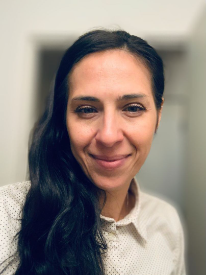
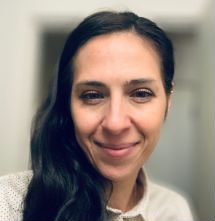
refactor: add phonts

diff --git a/index.html b/index.html
@@ -4,44 +4,44 @@
     <meta charset="UTF-8" />
     <meta http-equiv="X-UA-Compatible" content="IE=edge" />
     <meta name="viewport" content="width=device-width, initial-scale=1.0" />
+    <!-- Project fonts -->
+    <link rel="preconnect" href="https://fonts.googleapis.com">
+    <link rel="preconnect" href="https://fonts.gstatic.com" crossorigin>
+    <link href="https://fonts.googleapis.com/css2?family=DM+Sans:wght@400;700&family=PT+Sans+Narrow:wght@400;700&family=Playfair+Display:wght@400;700&family=Roboto+Slab:wght@400;700&display=swap" rel="stylesheet">
     <!-- Custom styles -->
     <link rel="stylesheet" href="./style.css" />
     <title>CV</title>
   </head>
 
   <body>
-    <container class="container">
+    <div class="container">
       <aside class="aside">
         <img
           src="./images/main_photo.jpg"
           alt="Photo of the developer this CV"
           class="photo"
-          width=""
-          height=""
+          width="204"
+          height="207"
         />
 
-
-        <address class="contacts">
+        <div class="contacts">
           <h3 class="title">CONTACTS</h3>
           <ul class="contacts-list">
             <li class="contatcs-item">
-              <svg class="icon contatcs-phone" width=""
-              height="">
+              <svg class="icon contatcs-phone" width="24" height="24">
                 <use href="/icons/sprite.svg#icon-phone"></use>
               </svg>
               <a class="link" href="tel:+15039978580">+15039978580</a>
             </li>
             <li class="contatcs-item">
-              <svg class="icon contatcs-email" width=""
-              height="">
+              <svg class="icon contatcs-email" width="24" height="24">
                 <use href="/icons/sprite.svg#icon-email"></use>
               </svg>
               <a class="link" href="mailto:vahostel@gmail.com">vahostel@gmail.com</a>
             </li>
 
             <li class="contatcs-item">
-              <svg class="icon contatcs-github" width=""
-              height="">
+              <svg class="icon contatcs-github" width="24" height="24">
                 <use href="/icons/sprite.svg#icon-github"></use>
               </svg>
               <a
@@ -55,8 +55,7 @@
             </li>
 
             <li class="contatcs-item">
-              <svg class="icon linkedin" width=""
-              height="">
+              <svg class="icon linkedin" width="24" height="24">
                 <use href="/icons/sprite.svg#icon-linkedin"></use>
               </svg>
               <a
@@ -69,9 +68,8 @@
               >
             </li>
 
-            <li class="contatcs-item" >
-              <svg class="icon contatcs-address" width=""
-              height="">
+            <li class="contatcs-item">
+              <svg class="icon contatcs-address" width="24" height="24">
                 <use href="/icons/sprite.svg#icon-home"></use>
               </svg>
               <a
@@ -83,9 +81,7 @@
               >
             </li>
           </ul>
-        </address>
-
-
+        </div>
 
         <div class="tech-skills">
           <h3 class="title">TECH SKILLS</h3>
@@ -267,6 +263,6 @@
           </div>
         </section>
       </main>
-    </container>
+    </div>
   </body>
 </html>

diff --git a/style.css b/style.css
@@ -7,7 +7,7 @@
 }
 
 body {
-  font-family: 'Roboto', sans-serif;
+  font-family: 'DM Sans', sans-serif;
   font-style: normal;
   color: #2f3131;
 }
@@ -23,3 +23,8 @@ a {
 img {
   display: block;
 }
+
+/* font-family: 'DM Sans', sans-serif;
+font-family: 'Playfair Display', serif;
+font-family: 'PT Sans Narrow', sans-serif;
+font-family: 'Roboto Slab', serif; */
